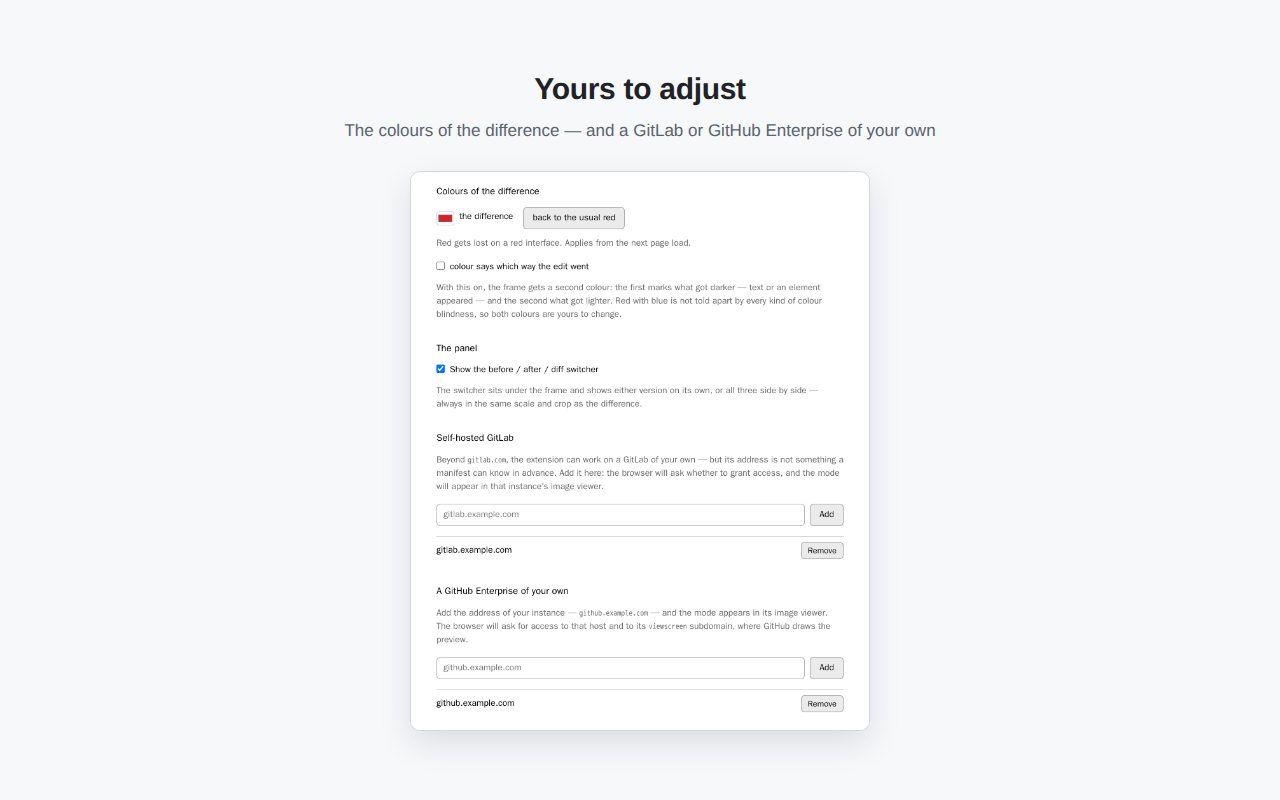
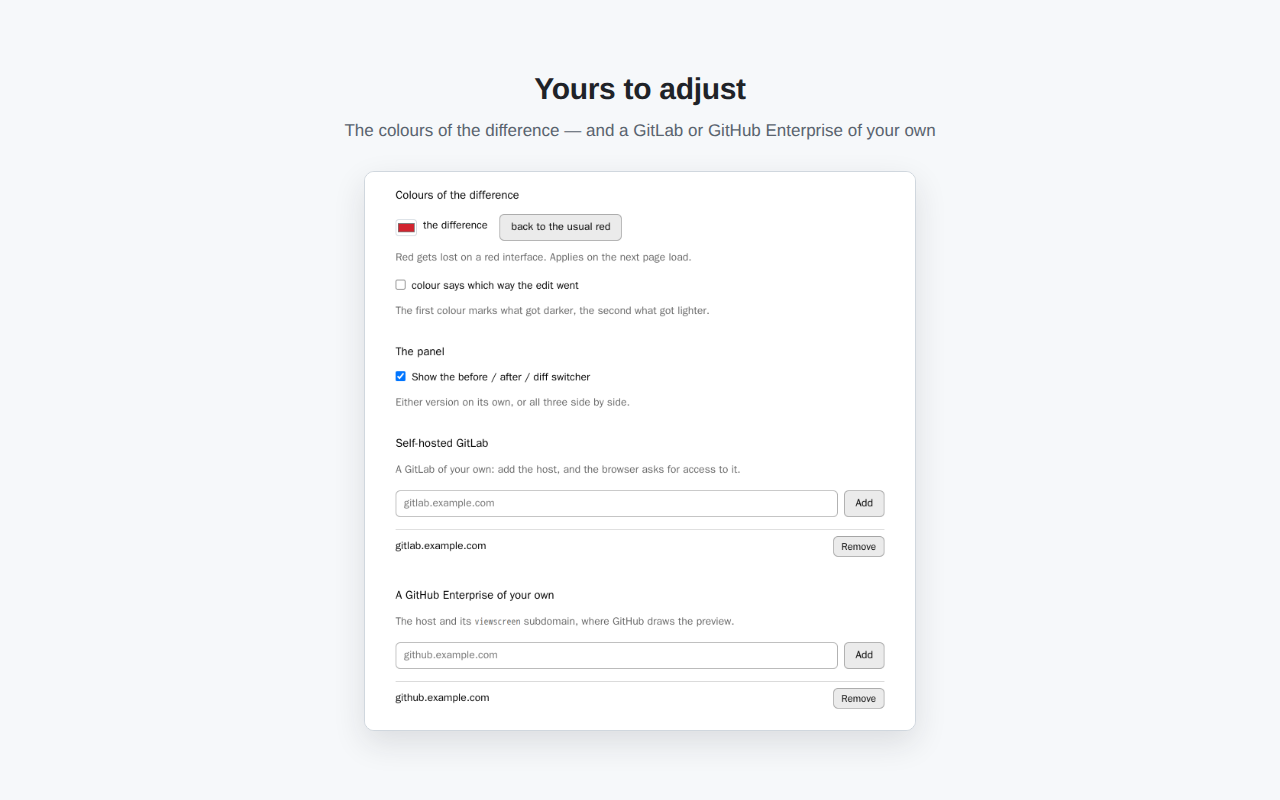
docs: reshoot once more, and say what the extension does now
Third time, and the last: the frames now show the red outline and the
settings page the short hints.

The store description had not moved since GitLab was added — it promised a
threshold slider and three frames and stopped there. Zoom, walking between
places, the pixel inspector, saving as a PNG, the language, the colours and
GitHub Enterprise are in it now.

The privacy policy said "a GitLab of your own" where it now means either
kind, and said nothing about settings at all — worth a line, since they do
travel through the browser's sync.

Changed region(s): [[0.3125, 0.2188, 0.6875, 0.7188], [0.3125, 0.7188, 0.6875, 0.9062]]

diff --git a/site/privacy.html b/site/privacy.html
@@ -55,7 +55,9 @@
     and revocable at any time from the browser's extension settings.</li>
   </ul>
   <p>No image, file name, repository name, URL, or account information is
-  stored.</p>
+  stored. Your settings — the threshold, the interface language, the colours of
+  the difference, the addresses of your own instances — are kept by the browser
+  and travel only through its own sync, if you have it on.</p>
 
   <h2>What it accesses</h2>
   <p>The extension runs on two addresses:
@@ -68,11 +70,14 @@
   <p>The comparison happens entirely on your machine. The images never leave
   it.</p>
 
-  <p>If you add a GitLab of your own on the settings page, that instance's
-  address joins the list — you grant it by hand, one host at a time, and revoke
-  it from the same page or from the browser's own settings. The extension
-  behaves there exactly as it does on <code>gitlab.com</code>, and on a page
-  that is not GitLab it does nothing at all.</p>
+  <p>If you add a GitLab or a GitHub Enterprise of your own on the settings
+  page, that instance's address joins the list — you grant it by hand, one host
+  at a time, and revoke it from the same page or from the browser's own
+  settings. A GitHub Enterprise is granted together with its
+  <code>viewscreen</code> subdomain, where GitHub draws the preview. The
+  extension behaves there exactly as it does on <code>gitlab.com</code> and on
+  <code>github.com</code>, and on a page with no image diff on it it does
+  nothing at all.</p>
 
   <h2>This page</h2>
   <p>The comparison page on this site works the same way: the images you drop

diff --git a/docs/PUBLISHING.md b/docs/PUBLISHING.md
@@ -250,14 +250,24 @@ three-pixel shift you can see, not a picture you have to hunt through.
 
 - A threshold slider: raise it to ignore compression noise, lower it to catch
   everything.
-- Before / after / diff, and all three side by side, sharing one scale and one
-  crop.
+- Zoom and pan: Ctrl + scroll or a trackpad pinch, dragging to move. Magnified
+  pixels stay square, so a one-pixel shift is something you can look at.
+- Edits in different corners are separate places, and the caption walks between
+  them one at a time.
+- A pixel inspector: point at the frame and see which pixel that is and what
+  colour it was before and after.
+- Save what you are looking at as a PNG, ready for a comment or a ticket.
+- Before / after / diff / overlay, and three frames side by side, sharing one
+  scale and one crop.
 - Images that changed size are aligned and compared anyway.
 - SVG and other vector images are rasterised before comparison.
 - Works on the images the site has already loaded — nothing is uploaded
   anywhere.
-- A GitLab of your own: add its address on the settings page, grant access,
-  and the mode appears in that instance too.
+- Yours to adjust on the settings page: the interface language, the colour of
+  the difference, and a second colour for telling darker edits from lighter
+  ones.
+- A GitLab or GitHub Enterprise of your own: add its address on the settings
+  page, grant access, and the mode appears in that instance too.
 - No merge request at hand? Two images of your own compare the same way at
   https://nemo-illusionist.github.io/gh-pixel-diff/
 

diff --git a/docs/PRIVACY.md b/docs/PRIVACY.md
@@ -24,6 +24,9 @@ Two kinds of settings, and only settings:
   any time from the browser's extension settings.
 
 No image, file name, repository name, URL, or account information is stored.
+Your settings — the threshold, the interface language, the colours of the
+difference, the addresses of your own instances — are kept by the browser and
+travel only through its own sync, if you have it on.
 
 ## What it accesses
 
@@ -36,11 +39,13 @@ read your repositories, and does not touch any other site.
 
 The comparison happens entirely on your machine. The images never leave it.
 
-If you add a GitLab of your own on the settings page, that instance's address
-joins the list — you grant it by hand, one host at a time, and revoke it from
-the same page or from the browser's own settings. The extension behaves there
-exactly as it does on `gitlab.com`, and on a page that is not GitLab it does
-nothing at all.
+If you add a GitLab or a GitHub Enterprise of your own on the settings page,
+that instance's address joins the list — you grant it by hand, one host at a
+time, and revoke it from the same page or from the browser's own settings. A
+GitHub Enterprise is granted together with its `viewscreen` subdomain, where
+GitHub draws the preview. The extension behaves there exactly as it does on
+`gitlab.com` and on `github.com`, and on a page with no image diff on it the
+extension does nothing at all.
 
 The comparison page on this site works the same way: the images you drop there
 are read by the browser and never uploaded. There is no server behind the page —
